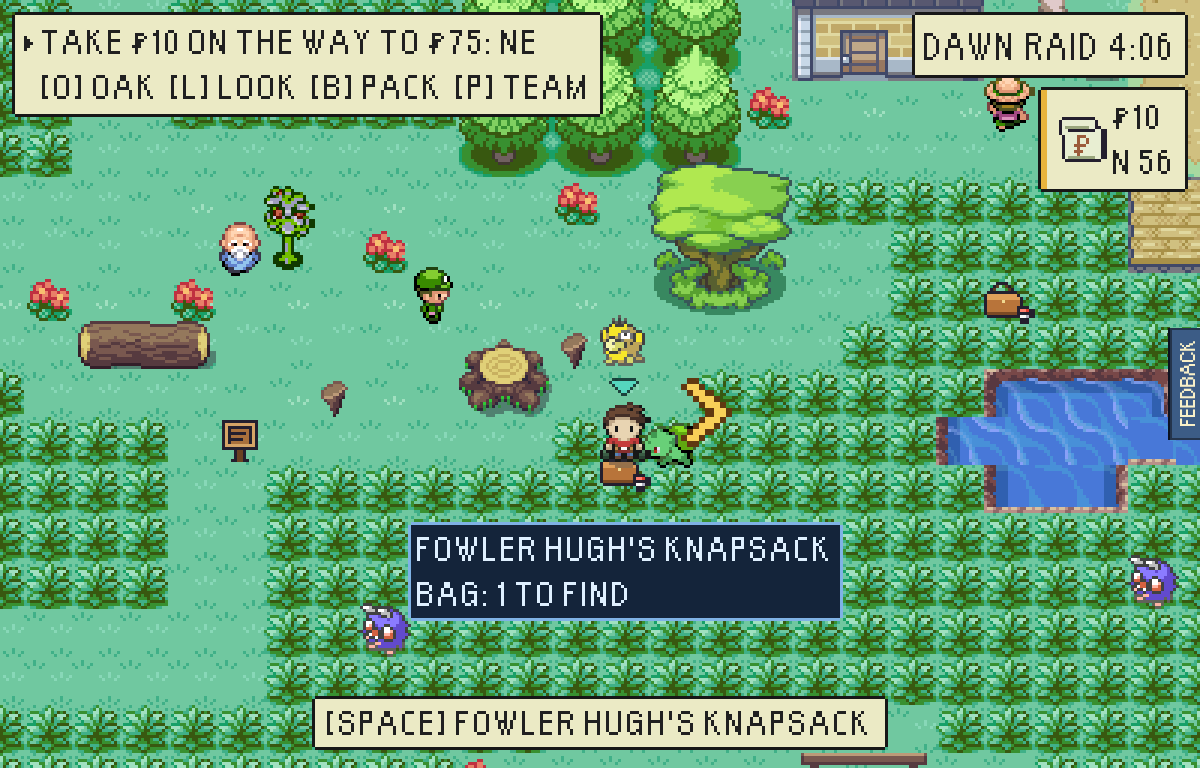
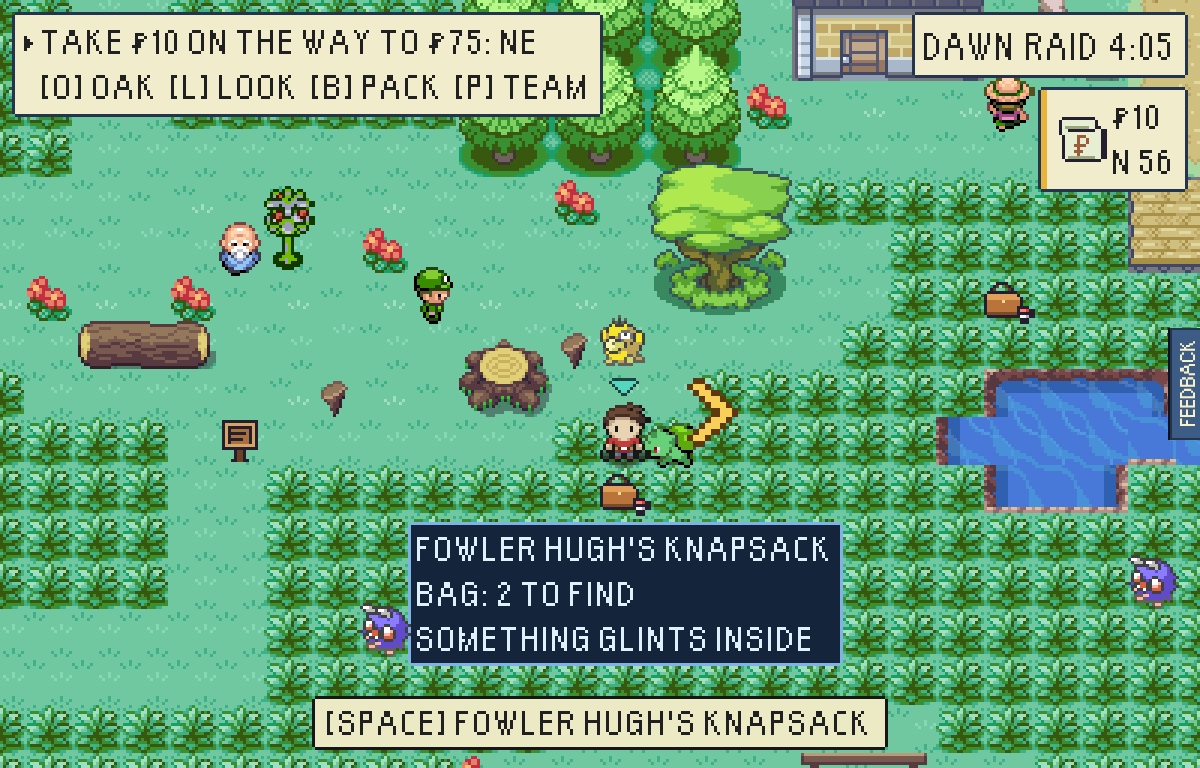
A trainer worth the fight wears FireRed's emote bubble with a bag in it, not a bag that reads as lying on the ground

diff --git a/src/game/scenes/WorldScene.ts b/src/game/scenes/WorldScene.ts
@@ -305,7 +305,6 @@ import { WINDOW_PAUSE_LINES, WINDOW_PAUSE_TITLE, type PausesForWindow } from '..
 import {
   CAPTION_BAND,
   FIGURE_BAND,
-  OVER_FIGURE,
   MARKER_BAND,
   CANOPY_BAND,
   ROOF_BAND,
@@ -442,7 +441,6 @@ import {
   BAG_GLINT_LINE,
   TRAINER_GLINT_BOB,
   TRAINER_GLINT_EVERY_MS,
-  TRAINER_GLINT_LIFT,
   bagAsPoi,
   bagIdFor,
   bagLabel,
@@ -800,6 +798,10 @@ const WATCH_LIFT_FADE_MS = 520;
 const SPOTTED_INK = 0x171717;
 const SPOTTED_CREAM = 0xfdf6e3;
 const SPOTTED_MARK = 0xdc2626;
+/** The bag in a trainer's mark: `trainer-bag.png`'s own leather and buckle. */
+const BAG_MARK_LIGHT = 0xe0a05a;
+const BAG_MARK_LEATHER = 0xb8743a;
+const BAG_MARK_BUCKLE = 0xf0d890;
 /** The question in a hunter's "?" while it looks for you: the green the chip says LOST YOU in. */
 const SEARCH_MARK = 0x3f8f3a;
 /**
@@ -1097,7 +1099,7 @@ export class WorldScene extends Phaser.Scene implements PausesForWindow {
   /** The bags the fight just won dropped, to be seen to fall once the world is drawn. */
   private bagsFalling: TrainerBag[] = [];
   /** The mark over each trainer whose bag is worth the fight, by trainer id, drawn with the map. */
-  private trainerGlints = new Map<string, Phaser.GameObjects.Image>();
+  private trainerGlints = new Map<string, Phaser.GameObjects.Graphics>();
   private readonly defeatedTrainerIds = new Set<string>();
   /**
    * Gear a beaten boss dropped that the pack had no room for. It waits here
@@ -4032,23 +4034,23 @@ export class WorldScene extends Phaser.Scene implements PausesForWindow {
   }
 
   /**
-   * The mark over a trainer whose bag is worth the fight: the dropped bag's
-   * own icon, bobbing over their head - the thing they would drop, so it reads
-   * as loot, and never as the stars that mean a shiny Pokemon in this game.
+   * The mark over a trainer whose bag is worth the fight: FireRed's emote
+   * bubble - the same cream bubble and tail as the "!" a trainer shows when
+   * they spot you - with a little bag in it, bobbing over their head. A
+   * thought rather than a thing: the bag's own icon hung over a figure read
+   * as a bag lying on the ground a tile north of them, and the shiny stars
+   * already mean a shiny Pokemon.
    */
   private createTrainerGlint(encounter: RunTrainerEncounter): void {
-    const texture = iconTextureKey(WORLD_ICONS.trainerBag);
-    if (!this.textures?.exists?.(texture)) {
+    if (!this.add?.graphics) {
       return;
     }
-    const x = encounter.position.x * TILE_SIZE + TILE_SIZE / 2;
-    const y = encounter.position.y * TILE_SIZE - TILE_SIZE / 2 - TRAINER_GLINT_LIFT;
-    const glint = this.add
-      .image(x, y, texture)
-      .setDepth(atRow(FIGURE_BAND, encounter.position.y) + OVER_FIGURE);
+    const mark = this.add.graphics().setDepth(atRow(CANOPY_BAND, encounter.position.y) + 0.1);
+    this.paintBagMark(mark);
+    this.placeSpottedMark(mark, encounter.position.x, encounter.position.y, Number.POSITIVE_INFINITY);
     this.tweens?.add?.({
-      targets: glint,
-      y: y - TRAINER_GLINT_BOB,
+      targets: mark,
+      y: mark.y - TRAINER_GLINT_BOB,
       duration: 260,
       yoyo: true,
       hold: 120,
@@ -4056,8 +4058,27 @@ export class WorldScene extends Phaser.Scene implements PausesForWindow {
       repeatDelay: TRAINER_GLINT_EVERY_MS,
       ease: 'Sine.easeOut',
     });
-    this.trainerGlints.set(encounter.trainer.id, glint);
-    this.mapObjects.push(glint);
+    this.trainerGlints.set(encounter.trainer.id, mark);
+    this.mapObjects.push(mark);
+  }
+
+  /** The bag-in-a-bubble mark, a pixel at a time like the spotted "!", in the dropped bag's own leather. */
+  private paintBagMark(mark: Phaser.GameObjects.Graphics): void {
+    const box = (color: number, x: number, y: number, w: number, h: number) =>
+      mark.fillStyle(color, 1).fillRect(x, y, w, h);
+    box(SPOTTED_INK, 0, 0, 11, 13);
+    box(SPOTTED_CREAM, 1, 1, 9, 11);
+    box(SPOTTED_INK, 4, 13, 3, 1);
+    box(SPOTTED_CREAM, 5, 13, 1, 1);
+    box(SPOTTED_INK, 5, 14, 1, 1);
+    // The bag: a strap over a body, a flap of lighter leather and a buckle.
+    box(SPOTTED_INK, 4, 2, 3, 1);
+    box(SPOTTED_INK, 3, 3, 1, 1);
+    box(SPOTTED_INK, 7, 3, 1, 1);
+    box(SPOTTED_INK, 2, 4, 7, 6);
+    box(BAG_MARK_LIGHT, 3, 5, 5, 2);
+    box(BAG_MARK_LEATHER, 3, 7, 5, 2);
+    box(BAG_MARK_BUCKLE, 5, 6, 1, 1);
   }
 
   /**

diff --git a/src/game/world/trainerBags.ts b/src/game/world/trainerBags.ts
@@ -504,10 +504,9 @@ export const isHunterBagId = (bagId: string): boolean => bagId.startsWith(bagIdF
  */
 export const BAG_GLINT_LINE = 'SOMETHING GLINTS INSIDE';
 
-/** How long the bag over a trainer worth the fight waits between bobs: often enough to be seen walking past. */
+/** How long the mark over a trainer worth the fight waits between bobs: often enough to be seen walking past. */
 export const TRAINER_GLINT_EVERY_MS = 1400;
-/** How far above the trainer's head the bag hangs, and how far it bobs, in pixels. */
-export const TRAINER_GLINT_LIFT = 6;
+/** How far the mark bobs, in pixels. */
 export const TRAINER_GLINT_BOB = 2;
 
 /** How long after the world comes back from the fight a bag is seen to fall: once its fade has cleared. */

diff --git a/src/game/world/depths.ts b/src/game/world/depths.ts
@@ -40,13 +40,6 @@ export const FIGURE_BAND = 2;
 export const atRow = (band: number, tileY: number): number => band + tileY / 1000;
 
 /**
- * A mark worn by one figure - the glint over a trainer whose bag is worth the
- * fight (`world/trainerBags.ts`) - over that figure and every figure a row
- * above it, under any figure a row below: half a row up from its own.
- */
-export const OVER_FIGURE = 0.0005;
-
-/**
  * The crown of a tree, and anything else a figure passes behind.
  *
  * It is the one band above the figures, which is what gives a wood an inside:

diff --git a/docs/agents/world-mechanics.md b/docs/agents/world-mechanics.md
@@ -15,7 +15,7 @@ Moved out of `AGENTS.md` on 9 Nov 2026 so that file stays small; nothing here wa
 - **Locks and keys: most locks give to a Lockpick, a special exit to its own key** (the owner's call, 2026-10-12). A `WorldPoi` may be `locked` - a cache that opens only to a raid that spends a Lockpick on it (`openPoi` spends one as it opens; the pack's room decides nothing, because a cache is searched a piece at a time), one per shipped map, paying more than any open cache beside it. An exit may be **barred** - `ExtractionRequirement` `dug` (rubble, the map maker's Pickaxe exit) or `key` (a gate only its named key turns) - and `itemThatOpens`/`isBarredExit` in `extractionPoints.ts` is the one question: barred is a wall until opened (`WorldScene.barredExitAt`/`tryOpenBarredExitAt`, `ActiveRunSession.exitsOpened`), open for that raid only, and **nothing that promises a way out may count one** - the standing board's exits, `mapStructure.testkit.ts`'s way-out rule, `hunterFlee.test.ts`'s window and the hunter's `reachableExitPositions` all leave them out. Every shipped map has one key exit and its key (packable, one square, never used up, lost with the pack) laid as a prize in another district of the same map, and four have rubble (Viridian City's rock has no pocket that is not under a crown). The words are FireRed's (`Text_ItNeedsCardKey`, `Text_CardKeyOpenedDoor`, `CinnabarIsland_Text_DoorIsLocked`). A **map file** locks an exit with `opens: { when: 'key' }` to FireRed's own Card Key (`MAP_FILE_EXIT_KEY`, one card for every file, as one card opens all of Silph Co.) and marks the item spot it lies on `key` - laid at the shipped keys' odds (`CARD_KEY_CHANCE`) and out of the spots' rotation, so no other spot's contents move; `isBarredFileExit` is the file side of `isBarredExit`, and `mapFileChecks` refuses a lock with no card or a card with no lock. `tools/tileset/pockets.mts -- <map> [--district=<id>]` lists a map's free, canopy-free dead ends - where a barred exit or a crate can stand without shutting a lane - and the free ground of one district for a prize's fallback tile.
 - **A cache is searched, never paid out** (the captain, 2026-10-29: "in Tarkov you search crates"). Opening one (`openPoi` in `world/pois.ts`: the Lockpick, the exit it opens, `activatedPoiIds`) starts `world/cacheSearch.ts`: the lid, then each unit of its reward comes to light after `SEARCH_PIECE_MS` plus `SEARCH_SQUARE_MS` a square, drawn by `ui/SearchPanel.ts` down the right of the screen and never a dialogue box. A number key takes that piece, the interact key takes everything found and everything still to come, any direction closes it and walks on. The search is charged to the raid clock exactly as the clock is (`advanceRunClock`), so the hunter's idle step keeps coming; where it got to and what was taken is `ActiveRunSession.cachesSearched`, so a search walked away from or cut short by a fight carries on, and a cache leaves the map only once its last piece is taken (`piecesLeftIn`). Ground loot is still picked up instantly.
 - **A cache pays what its place is.** The forty-one named caches in `world/pois.ts` used to pay the same five supplies between them and four of them paid character for character the same two, so as destinations they were interchangeable and only distance told them apart. They are authored per place now, on one vocabulary: medicine from water, springs, kitchens and presses; **balls from places that catch** (a decoy, a hide, a warren, a bird-scarer, a hollow oak); and a Brock material from the place that *makes* it - parts crates out of quarries and engine houses, lamp oil out of kilns and lamp stores, mooring rope off wharves and wrecks, linen out of laundries, shrines and lambing kits, cable off fuse reels and pit saws, radio valves off the relay's own boats. That is the same rule the wildlife tables and the ground-loot materials already followed; the caches were the layer that did not. `pois.test.ts` holds the *shape* rather than the contents: every payout distinct, drawn from the whole catalogue rather than from medicine and balls, no two maps paying the same list, and **never money** - a cache is a guaranteed pickup and the money faucet is measured off each map's loot pool alone (`hub/trader.test.ts`), so money out of one would be an unmeasured second faucet.
-- **A beaten trainer drops their bag, and it holds what that kind of trainer would carry** (the captain, 25 Nov 2026: "if you were a Pokemon trainer, what would you take?"). `world/trainerBags.ts` is the rule and the data: a kit per kind of trainer, read off the trainer's look (`KIT_FOR_DESIGN` - a hiker's RUCKSACK, a fisherman's TACKLE BOX, a grunt's DUFFEL), each hunter's own (`HUNTER_KITS`), and a gym leader's own. A bag is carried at the kit's odds by an ordinary trainer (a swimmer rarely, a hiker nearly always; one with none says so, `travellingLightLine`) and always by a boss and a hunter. It holds one piece of the kit's **signature** (what that kind never leaves without, seldom a crate's thing), one everyday **extra** one time in two, and one roll for a **find** - uncommon, rare or treasure - at the odds of the owner's standing (`FIND_ODDS`: rookie below level 12, veteran, hunter, boss - who always carries their treasure, being fought once a save), never a thing already in the bag. A trainer standing on ground a walk straight out could call in on (`RunPlan.roadsideTrainers`, read off `StakeGround.walkOut`) is `roadside`, and their bag holds its signature piece alone: walking straight out pays almost nothing, and up to five trainers a landing stand there. On a new save's first raid (`RunPlan.stagedChase`) every ordinary trainer is a `newcomer` instead, whose bag always holds a find: the first bags a player opens sell them on bags, as the first contract is softened by data. No bag holds a thing another reward is the one way to - TM39, the Hauler frame, a race's trophies - and the Pika Cushion is left to the pit's first gift. Only the first hunter a raid beats carries at hunter odds, the rest at a veteran's: one hunter a district, beaten every raid, must not be a vending machine. Gear, machines and the Ranger pack are treasure only; a bag never holds money (the money faucet is measured off the loot pool alone, as for a cache), a key, a stone, an HM or an errand - `trainerBags.test.ts` holds all of it, and `npx vite-node tools/trainers/bags.mts` prints what the bags pay per kit and standing. It is rolled on its own stream (`bagSeed`: the raid's seed and the owner's id), so it moves no other roll, and it is laid once per owner per raid in `ActiveRunSession.trainerBags` - on the trainer's own tile, or near where a hunter fell (`WorldScene.bagRestingTile`), falling into place with `bagDropped` once the fight's fade clears - and searched exactly as a cache is (`poisHere()` is the map's caches and the raid's bags; `bag:` ids, `isBagId`). The roll is the raid's from deployment, so an ordinary trainer whose bag would hold a rare find or a treasure has the dropped bag's own icon bobbing over their head before the fight (`trainerBagGlints`, `createTrainerGlint`; not the shiny stars, which mean a shiny Pokemon here, and not over a boss, whose treasure is certain) and taken down as they walk up - the fight is the player's choice, the item stays hidden. A bag whose prize is still in it says `SOMETHING GLINTS INSIDE` on its caption, and that find comes to light named (`RARE FIND`, `TREASURE!`), inked apart by `SearchPanel` and sounded with `prizeSighted` (`isPrizeFind` in `cacheSearch.ts`). A bag already opened is not opened again by a passing step - it lies in a lane as often as not - only faced and asked for. A raid room's shared hunter and the enrage's returning keeper (beaten once already) drop nothing more. `raid.mjs --rob=N` beats the nearest trainers and searches their bags end to end.
+- **A beaten trainer drops their bag, and it holds what that kind of trainer would carry** (the captain, 25 Nov 2026: "if you were a Pokemon trainer, what would you take?"). `world/trainerBags.ts` is the rule and the data: a kit per kind of trainer, read off the trainer's look (`KIT_FOR_DESIGN` - a hiker's RUCKSACK, a fisherman's TACKLE BOX, a grunt's DUFFEL), each hunter's own (`HUNTER_KITS`), and a gym leader's own. A bag is carried at the kit's odds by an ordinary trainer (a swimmer rarely, a hiker nearly always; one with none says so, `travellingLightLine`) and always by a boss and a hunter. It holds one piece of the kit's **signature** (what that kind never leaves without, seldom a crate's thing), one everyday **extra** one time in two, and one roll for a **find** - uncommon, rare or treasure - at the odds of the owner's standing (`FIND_ODDS`: rookie below level 12, veteran, hunter, boss - who always carries their treasure, being fought once a save), never a thing already in the bag. A trainer standing on ground a walk straight out could call in on (`RunPlan.roadsideTrainers`, read off `StakeGround.walkOut`) is `roadside`, and their bag holds its signature piece alone: walking straight out pays almost nothing, and up to five trainers a landing stand there. On a new save's first raid (`RunPlan.stagedChase`) every ordinary trainer is a `newcomer` instead, whose bag always holds a find: the first bags a player opens sell them on bags, as the first contract is softened by data. No bag holds a thing another reward is the one way to - TM39, the Hauler frame, a race's trophies - and the Pika Cushion is left to the pit's first gift. Only the first hunter a raid beats carries at hunter odds, the rest at a veteran's: one hunter a district, beaten every raid, must not be a vending machine. Gear, machines and the Ranger pack are treasure only; a bag never holds money (the money faucet is measured off the loot pool alone, as for a cache), a key, a stone, an HM or an errand - `trainerBags.test.ts` holds all of it, and `npx vite-node tools/trainers/bags.mts` prints what the bags pay per kit and standing. It is rolled on its own stream (`bagSeed`: the raid's seed and the owner's id), so it moves no other roll, and it is laid once per owner per raid in `ActiveRunSession.trainerBags` - on the trainer's own tile, or near where a hunter fell (`WorldScene.bagRestingTile`), falling into place with `bagDropped` once the fight's fade clears - and searched exactly as a cache is (`poisHere()` is the map's caches and the raid's bags; `bag:` ids, `isBagId`). The roll is the raid's from deployment, so an ordinary trainer whose bag would hold a rare find or a treasure wears FireRed's emote bubble with a little bag in it, bobbing over their head, before the fight (`trainerBagGlints`, `createTrainerGlint`: the spotted "!"'s own bubble; not the bag's icon, which hung over a figure read as a bag on the ground, nor the shiny stars, which mean a shiny Pokemon here, and not over a boss, whose treasure is certain), hidden while the player stands beside them and taken down as they walk up - the fight is the player's choice, the item stays hidden. A bag whose prize is still in it says `SOMETHING GLINTS INSIDE` on its caption, and that find comes to light named (`RARE FIND`, `TREASURE!`), inked apart by `SearchPanel` and sounded with `prizeSighted` (`isPrizeFind` in `cacheSearch.ts`). A bag already opened is not opened again by a passing step - it lies in a lane as often as not - only faced and asked for. A raid room's shared hunter and the enrage's returning keeper (beaten once already) drop nothing more. `raid.mjs --rob=N` beats the nearest trainers and searches their bags end to end.
 - A trainer is a price on a route only if walking the route is what starts the fight. `WorldScene.tryInteract()` needs the player to press the interact key, so a trainer standing in a one-tile lane is a locked door, not a cost. `src/game/world/trainerSight.ts` is the answer: an authored `sightRange` makes the trainer challenge anyone who steps into the straight run of tiles they are facing, `WorldScene.tryTrainerChallengeAt()` fires it after extraction and before the tall-grass roll, and `createTrainerWatch()` shades that ground and captions the trainer so the price is on screen before the player is in it. The Floodplain checkpoint and Route 1's boss are authored with a watch; the other three trainers are still spoken to. **A trainer who holds no gate is a toll, and a toll has to be payable at the level the route is walked at.** Only a boss may be a wall, because only a boss has a door behind it that stays open; every other trainer stands up again next raid, so "come back stronger" buys them nothing. RAIDER MAYA was two level-7s ten steps into the first contract, which a level-5 starter beat 0% of the time with its whole pack open - and at level 10 with nothing packed was still 10% for the Fire starter against 100% for the Water one - for a road measured at two steps and nine tall-grass steps (forty steps to anything east) - see her party's note in `trainers.ts` and `floodplainCheckpoint.test.ts`. What a toll is paid in is **supplies**: the pack, not the raid. **Every starter has to be able to pay a toll**: `TOLL_BAND` in `trainers.ts` is the rule (each starter alone, at the level the toll is met - 8, or 10 in Viridian Forest - with three Potions, wins at least 60% and is no more than 35 points behind another), `tolls.test.ts` holds every toll to it and `npx vite-node tools/trainers/tolls.mts` prints the grid while a party is being chosen. Being caught is a beat, not a cut: it is an authored cutscene (see the note below), and `src/game/world/trainerApproach.ts` is only the geometry it walks - the ground between the trainer and one tile short of whoever they caught. The payoff is `liftBeatenWatches()`: a beaten trainer is simply not rebuilt, so on the return from the win the shading is redrawn and released tile by tile from the trainer's end, once per trainer (`ActiveRunSession.watchesLifted`, because the world is rebuilt after every later wild fight too). `mapStructure.testkit.ts` holds every watch to the rules that keep it fair (never over an insertion, an exit or a warp arrival) and `floodplainRelay.test.ts` holds that map's road-versus-reeds choice to route facts.
 - **An authored beat is a list of actions, not a method.** `src/game/cutscene/cutscene.ts` is the machine - the action vocabulary (`wait`, `say`, `turn`, `move`, `emote`, `teleport`, `show`, `fade`, `sound`, each carrying the tutorial's own `waitForCompletion`), a `CutscenePlayer` driven by elapsed ms, and `checkCutscene`, which is what makes the three raid constraints checkable rather than remembered. `src/game/world/cutscenes.ts` is every beat there is, authored as data. `WorldScene.playCutscene()` starts one (its first instant plays on the same tick, so the turn and the sting land where the player was caught), `advanceCutscene()` gives it the frame from `update()`, and `endCutscene()` is on the per-raid reset list and is called by `transitionToBattle` - a beat overtaken by the fight it was leading to must not be left holding the frame. The three constraints, and why: **the raid clock is charged for time the player can spend and never for time the world spends on itself**, so a self-running beat is free (and bounded by `CUTSCENE_TIMED_CAP_MS`, or there would be an authored way to stop the clock) and a `say` is billed exactly as any other dialogue; **every beat is skippable or self-advancing**, so the only beat that may wait is the dialogue box, which prompts; and **a cutscene may not move the player**, because `WorldScene`'s step machinery owns their tile and extraction, warps, tall grass and the district plate are all read off it - turning them is free of all that and is all any beat has wanted. Two are authored: the trainer approach (the mark, the walk to one tile short, the line) and the hunter's catch (both figures turn to look at each other, a breath, then the rival's own two `caught` lines from `hunters.ts`). A mark is seated a tile above the figure it belongs to and drawn above every figure, so `markWouldCoverThePlayer()` drops it in the one geometry where it would sit on the player's own face - hidden rather than drawn over something, the same rule `labelPlacement.ts` follows. `teleport`, `show` and `fade` are the tutorial's vocabulary and are held by `cutscene.test.ts`; nothing authored uses them yet.
 - **A place with a roof on it is the same map with a lid, never a second scene.** `src/game/world/interiors.ts` authors a `MapInterior` - the rectangle the lid covers, what it is made of, its mouths, whether its floor rolls for wildlife and how dim it is - and Pallet Town's THE DELVE is the shipped one, the level under the quarry hill. The tutorial's interiors are a Unity scene behind a portal and that is the one part of it this game must not take: a map here is an arena, an exit takes whoever steps on it, and the hunter's pursuit is a breadth-first search over one collision grid, so a second scene would be a safe box with a loading seam on it. The floor is therefore drawn in the sketch like any other ground and **every structural rule, measured route and hunter search sees ordinary tiles**; what is added is `MapLayers.roof`, one tile layer above the canopy painted by `buildMapLayers` through the ordinary autotiler (so a hillside has a rim), which `WorldScene` lifts while the player is under it, plus a veil at `INTERIOR_DIM_DEPTH` so the floor is dark and the figures on it are not. Four rules, each paid for: **two mouths always**, because a one-door room is the shape of the hunter-in-the-neck trap, and `interiors.test.ts` holds the stronger form - no floor tile is a dead end, so any single tile being stood on still leaves every other tile a way out; **it breaks the trail and is not a safe box**, so the hunter walks to `HunterState.lastSeen` (`hunterQuarry()`) rather than to the player, is never blinded or frozen, may follow you in and still catches you on contact - and the chip says `HUNTER OFF THE SCENT` rather than anything about the player; **it is worth going in for**, which is its own district and a floor that rolls on every step (`floorRolls`, read at the one roll site in `WorldScene`), the only ground in the game that is not grass and still costs fights; and **dark is atmosphere, never a lock** - a cave gated behind Flash would be the corridor-with-a-key this game already refuses. Two traps the delve paid for: the lid is above the canopy, so a lattice tree crown left inside one is a beech growing in a mine (the test fails one, and the crown row is two above the trunk); and felling a lattice tree gives its tile back to `bare`, which on Pallet is grass, so a block that cuts ground beside a trunk opens the trunk's tile too - the delve draws its own floor row as rock to seal what its cutting felled. The delve joins THE HANGER to THE QUARRY in nineteen steps against thirty-seven round the hill, which is an alternative rather than a wormhole; a cave joining the valley's two lobes (143 steps apart, and authored that way) would be a map-design change and is the captain's call.

diff --git a/docs/screens/trainer-bags/README.md b/docs/screens/trainer-bags/README.md
@@ -3,10 +3,13 @@
 Before this, beating a trainer left nothing on their tile: the fight paid
 experience and opened the road, and that was all.
 
-- `after-bag-dropped.png`: Greystone Vale, just after FOWLER HUGH (a camper) is
-  beaten. His KNAPSACK lies on the tile he stood on, under the player, with its
-  caption (`BAG: 1 TO FIND`). BLUE's RAID PACK lies to the right, where the
-  hunter was beaten a little earlier.
+- `after-trainer-worth-the-fight.png`: Greystone Vale, a few steps from FOWLER
+  HUGH (a camper, left of the player), before the fight. His bag will hold a
+  rare find, so he wears FireRed's emote bubble with a little bag in it. BLUE's
+  bag lies top right, where the hunter was beaten a little earlier.
+- `after-bag-dropped.png`: just after HUGH is beaten. His KNAPSACK lies on the
+  tile he stood on, under the player, captioned `BAG: 2 TO FIND` and
+  `SOMETHING GLINTS INSIDE`.
 - `after-bag-searched.png`: the same bag being searched with the cache search
   panel, its caption now `OPENED: ... STILL INSIDE`.
 - `icon-beside-cache-and-packs.png`: the new `trainer-bag` icon (left), drawn by
@@ -15,7 +18,7 @@ experience and opened the road, and that was all.
   out, so it never reads as a pack item or a cache.
 
 The two screens were made with
-`node tools/playtest/raid.mjs <test-mode build url> --pixels --stepped --window=pixel --level=20 --fight --rob=4 --skip-contract --seed=11 --shot=raid.png`
+`node tools/playtest/raid.mjs <test-mode build url> --pixels --stepped --window=pixel --level=20 --fight --rob=3 --skip-contract --seed=11 --shot=raid.png`
 against a test-mode build (`VITE_EPTW_TEST_MODE=1 npx vite build`), served
 under its Pages subpath. The icon sheet is the icon PNGs scaled 8x by a
 throwaway script.
